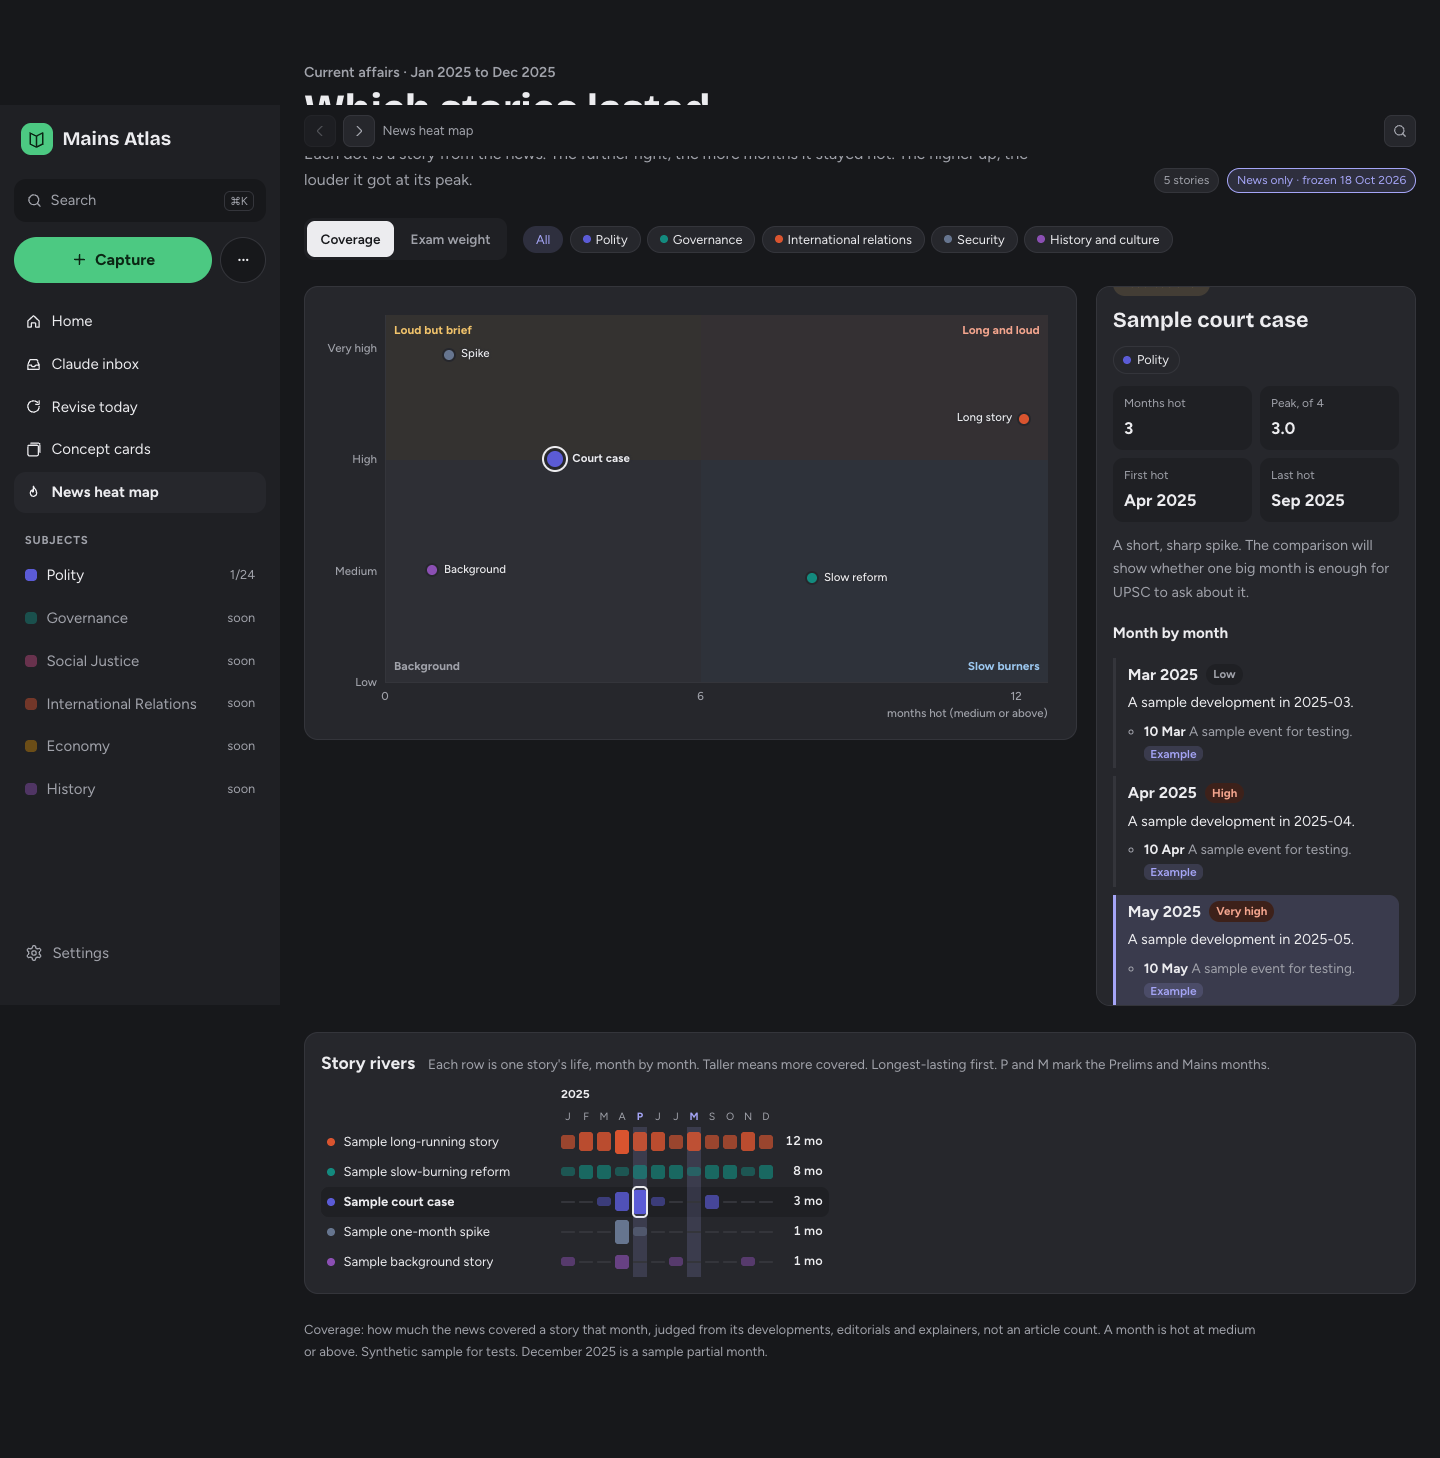
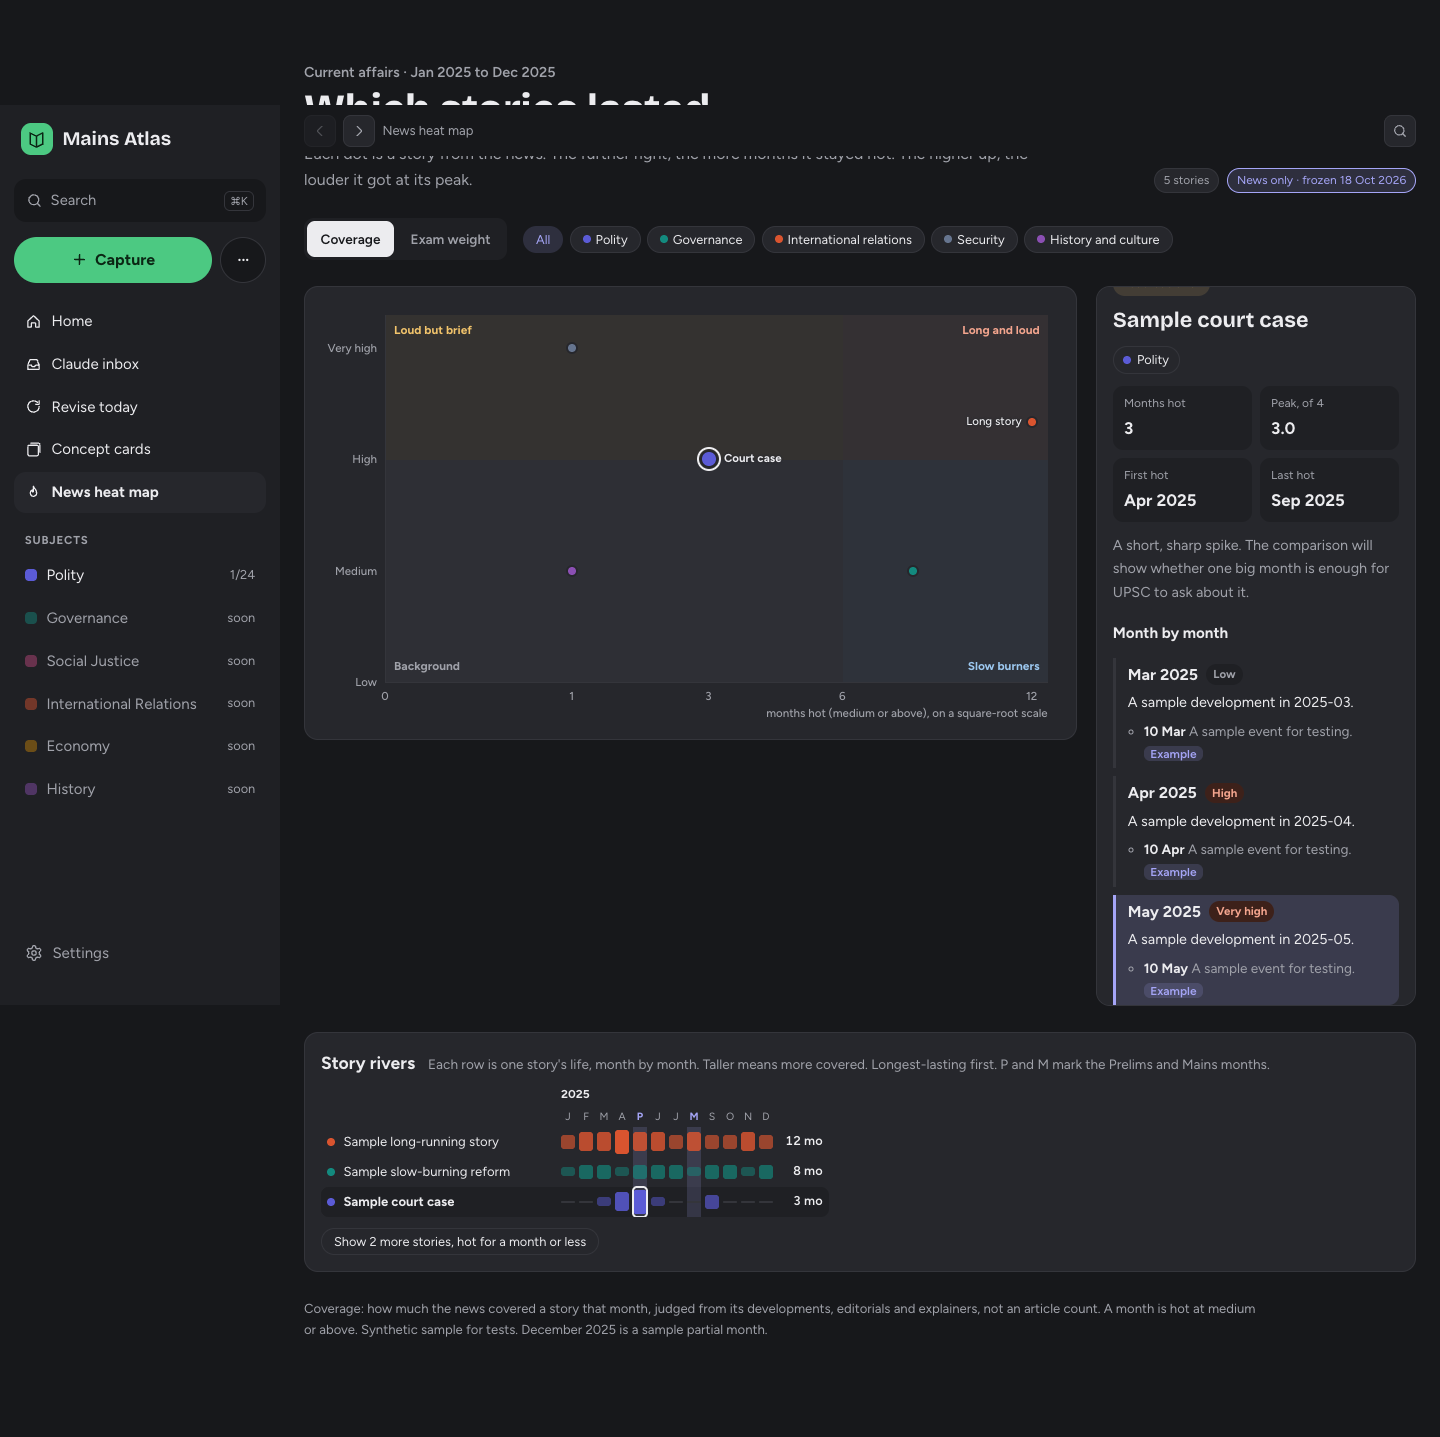
Heat map: spread clustered dots, square-root months, label placement
Most stories were hot for a single month, so dots on the same spot fan
out in a small spiral, the months axis uses a square-root scale, and
labels try beside, above and below a dot before giving up. The rivers
fold away stories hot for a month or less behind a button. Handoff,
architecture and decisions record the heat map.

diff --git a/app/src/heatmap/HeatMapPage.tsx b/app/src/heatmap/HeatMapPage.tsx
@@ -153,7 +153,10 @@ function HeatMapView({ map }: { map: HeatMap }) {
         <div className="head-chips">
           <span className="pill">{map.stories.length} stories</span>
           <span className="pill review">
-            {map.frozenAt ? `News only · frozen ${dayLabel(map.frozenAt)} ${map.frozenAt.slice(0, 4)}` : "News only"}
+            News only ·{" "}
+            {map.frozenAt
+              ? `frozen ${dayLabel(map.frozenAt)} ${map.frozenAt.slice(0, 4)}`
+              : `built ${dayLabel(map.builtAt)} ${map.builtAt.slice(0, 4)}`}
           </span>
         </div>
       </header>
@@ -241,11 +244,26 @@ function useWidth(ref: RefObject<HTMLElement | null>) {
   return w;
 }
 
-/** A small, stable nudge per story so dots with the same numbers don't hide each other. */
-function jitter(id: string) {
-  let h = 2166136261;
-  for (let i = 0; i < id.length; i++) h = Math.imul(h ^ id.charCodeAt(i), 16777619);
-  return { dx: ((h & 0xff) / 255 - 0.5) * 0.7, dy: (((h >>> 8) & 0xff) / 255 - 0.5) * 0.14 };
+/**
+ * Many stories share the same numbers (most were hot for a single month), so dots on the same
+ * spot fan out in a small sunflower spiral around it, in pixels.
+ */
+type Box = { x1: number; x2: number; y1: number; y2: number };
+
+function spread(rows: Row[], step: number) {
+  const groups = new Map<string, Row[]>();
+  for (const r of rows) {
+    const k = `${r.st.hot}|${r.st.peak.toFixed(2)}`;
+    groups.set(k, [...(groups.get(k) ?? []), r]);
+  }
+  const out = new Map<string, { dx: number; dy: number }>();
+  for (const list of groups.values())
+    list.forEach((r, i) => {
+      const rad = step * Math.sqrt(i),
+        a = i * 2.39996;
+      out.set(r.s.id, { dx: rad * Math.cos(a), dy: rad * Math.sin(a) });
+    });
+  return out;
 }
 
 const clamp01 = (v: number) => Math.min(1, Math.max(0, v));
@@ -270,17 +288,19 @@ function Scatter({
   const plotH = narrow ? 320 : 420;
   const h = plotH - 52;
   const yOf = (peak: number) => clamp01((peak - PEAK_MIN) / (PEAK_MAX - PEAK_MIN));
-  const cutX = CUTS.hot / (total + 0.6),
+  // Months hot on a square-root scale: most stories were hot for a month or two, a few for years.
+  const xOf = (hot: number) => Math.sqrt(hot) / Math.sqrt(total + 0.6);
+  const cutX = xOf(CUTS.hot),
     cutY = yOf(CUTS.peak);
-
+  const offsets = spread(rows, narrow ? 4.5 : 6.5);
   const dots = rows.map((r) => {
-    const j = jitter(r.s.id);
-    return {
-      r,
-      on: r.s.id === selId,
-      x: clamp01((r.st.hot + j.dx) / (total + 0.6)),
-      y: clamp01(yOf(r.st.peak + j.dy)),
-    };
+    const o = offsets.get(r.s.id) ?? { dx: 0, dy: 0 };
+    const x = xOf(r.st.hot),
+      y = clamp01(yOf(r.st.peak));
+    // In pixels once the width is known, kept inside the plot.
+    const px = w ? Math.min(Math.max(x * w + o.dx, 5), w - 5) : 0,
+      py = w ? Math.min(Math.max(y * h + o.dy, 5), h - 5) : 0;
+    return { r, on: r.s.id === selId, x, y, px, py };
   });
 
   // Label the chosen story and the most telling others, skipping any label that would collide.
@@ -294,34 +314,48 @@ function Scatter({
       { x1: 0, x2: 100, y1: 0, y2: 26 },
       { x1: w - 100, x2: w, y1: 0, y2: 26 },
     ];
+    // Labels mustn't cover other dots either.
+    const at = (d: (typeof dots)[number]) => ({ px: d.px, py: d.py });
+    const dotBoxes = dots.map((d) => {
+      const { px, py } = at(d);
+      return { id: d.r.s.id, x1: px - 7, x2: px + 7, y1: h - py - 7, y2: h - py + 7 };
+    });
     const out: { id: string; text: string; left?: number; right?: number; bottom: number; on: boolean }[] = [];
-    const max = narrow ? 5 : 12;
-    for (const d of [...dots].sort((a, b) => score(b) - score(a))) {
+    const max = narrow ? 5 : 14;
+    const worth = (d: (typeof dots)[number]) =>
+      d.on || d.r.q === "long-loud" || (d.r.q === "brief-loud" && d.r.st.hot >= 3);
+    for (const d of dots.filter(worth).sort((a, b) => score(b) - score(a))) {
       if (!d.on && out.length >= max) continue;
       const text = d.r.s.short ?? d.r.s.name;
       const tw = text.length * 6.6 + 8;
-      const px = d.x * w,
-        py = d.y * h,
-        gap = d.on ? 17 : 12;
-      const right = px + 12 + tw <= w;
-      const box = right
-        ? { x1: px + 10, x2: px + 12 + tw, y1: h - py - 8, y2: h - py + 8 }
-        : { x1: px - 12 - tw, x2: px - 10, y1: h - py - 8, y2: h - py + 8 };
-      const hit = boxes.some((b) => box.x1 < b.x2 && box.x2 > b.x1 && box.y1 < b.y2 && box.y2 > b.y1);
-      if (hit && !d.on) continue;
-      boxes.push(box);
-      out.push({
-        id: d.r.s.id,
-        text,
-        on: d.on,
-        bottom: py,
-        ...(right ? { left: px + gap } : { right: w - px + gap }),
-      });
+      const { px, py } = at(d);
+      const gap = d.on ? 15 : 10;
+      const overlaps = (box: Box) => (b: Box) => box.x1 < b.x2 && box.x2 > b.x1 && box.y1 < b.y2 && box.y2 > b.y1;
+      const clear = (box: Box) =>
+        !boxes.some(overlaps(box)) && !dotBoxes.some((b) => b.id !== d.r.s.id && overlaps(box)(b));
+      // Try beside the dot, then above or below it (rows of dots leave room between them).
+      const mid = Math.min(Math.max(px - tw / 2, 0), w - tw);
+      const spots = [
+        {
+          box: { x1: px + gap - 2, x2: px + gap + tw, y1: h - py - 8, y2: h - py + 8 },
+          pos: { left: px + gap, bottom: py },
+        },
+        {
+          box: { x1: px - gap - tw, x2: px - gap + 2, y1: h - py - 8, y2: h - py + 8 },
+          pos: { right: w - px + gap, bottom: py },
+        },
+        { box: { x1: mid, x2: mid + tw, y1: h - py - 23, y2: h - py - 7 }, pos: { left: mid + 4, bottom: py + 15 } },
+        { box: { x1: mid, x2: mid + tw, y1: h - py + 7, y2: h - py + 23 }, pos: { left: mid + 4, bottom: py - 15 } },
+      ].filter((p) => p.box.x1 >= 0 && p.box.x2 <= w && p.box.y1 >= 0 && p.box.y2 <= h);
+      const spot = spots.find((p) => clear(p.box)) ?? (d.on ? spots[0] : undefined);
+      if (!spot) continue;
+      boxes.push(spot.box);
+      out.push({ id: d.r.s.id, text, on: d.on, ...spot.pos });
     }
     return out;
   })();
 
-  const xTicks = [0, 6, 12, 18, 24, 30, 36].filter((t) => t <= total);
+  const xTicks = [0, 1, 3, 6, 12, 24].filter((t) => t <= total);
   return (
     <div className="hm-plot" style={{ height: plotH }}>
       <div className="hm-yaxis" aria-hidden="true">
@@ -361,7 +395,11 @@ function Scatter({
             key={d.r.s.id}
             type="button"
             className={`hm-dot${d.on ? " on" : ""}`}
-            style={{ left: `${d.x * 100}%`, bottom: `${d.y * 100}%`, background: AREA_COLOR[d.r.s.area] }}
+            style={{
+              left: w ? d.px : `${d.x * 100}%`,
+              bottom: w ? d.py : `${d.y * 100}%`,
+              background: AREA_COLOR[d.r.s.area],
+            }}
             aria-pressed={d.on}
             aria-label={`${d.r.s.name}: hot for ${d.r.st.hot} months, peak ${d.r.st.peak.toFixed(1)} of 4`}
             title={`${d.r.s.name} · hot ${d.r.st.hot} mo · peak ${d.r.st.peak.toFixed(1)}`}
@@ -381,11 +419,11 @@ function Scatter({
       </div>
       <div className="hm-xaxis" aria-hidden="true">
         {xTicks.map((t) => (
-          <span key={t} style={{ left: `${(t / (total + 0.6)) * 100}%` }}>
+          <span key={t} style={{ left: `${xOf(t) * 100}%` }}>
             {t}
           </span>
         ))}
-        <b>months hot (medium or above)</b>
+        <b>months hot (medium or above), on a square-root scale</b>
       </div>
     </div>
   );
@@ -504,6 +542,10 @@ function Rivers({
   onPick: (id: string, m: string | null) => void;
 }) {
   const yearStart = (i: number) => i > 0 && months[i].endsWith("-01");
+  // Stories hot for a month or less are many; they show on request.
+  const [all, setAll] = useState(false);
+  const quiet = rows.filter((r) => r.st.hot < 2 && r.s.id !== selId).length;
+  const list = all ? rows : rows.filter((r) => r.st.hot >= 2 || r.s.id === selId);
   return (
     <section className="hm-card hm-rivers" aria-label="Story rivers">
       <div className="hm-rivers-head">
@@ -536,7 +578,7 @@ function Rivers({
               ))}
             </div>
           </div>
-          {rows.map((r) => {
+          {list.map((r) => {
             const on = r.s.id === selId;
             return (
               <div
@@ -577,6 +619,11 @@ function Rivers({
           })}
         </div>
       </div>
+      {quiet > 0 && (
+        <button type="button" className="chip-btn hm-more" onClick={() => setAll((v) => !v)}>
+          {all ? "Show only stories hot for two months or more" : `Show ${quiet} more stories, hot for a month or less`}
+        </button>
+      )}
     </section>
   );
 }

diff --git a/app/src/index.css b/app/src/index.css
@@ -4028,8 +4028,8 @@ tr.planned .title-cell {
 .hm-dot {
   position: absolute;
   z-index: 2;
-  width: 14px;
-  height: 14px;
+  width: 12px;
+  height: 12px;
   padding: 0;
   border: 2px solid var(--raised);
   border-radius: 50%;
@@ -4039,15 +4039,15 @@ tr.planned .title-cell {
 .hm-dot::after {
   content: "";
   position: absolute;
-  inset: -8px;
+  inset: -6px;
 }
 .hm-dot:hover {
   transform: translate(-50%, 50%) scale(1.25);
 }
 .hm-dot.on {
   z-index: 3;
-  width: 20px;
-  height: 20px;
+  width: 18px;
+  height: 18px;
   outline: 2px solid var(--ink);
   outline-offset: 1px;
 }
@@ -4372,6 +4372,9 @@ span.hm-rl {
   font-weight: 600;
   text-align: right;
 }
+.hm-more {
+  margin-top: 0.7rem;
+}
 .hm-method {
   max-width: 60rem;
   margin: 0;
@@ -4380,6 +4383,11 @@ span.hm-rl {
 @media (max-width: 600px) {
   .hm-rl {
     width: 150px;
+  }
+  .hm-dot {
+    width: 9px;
+    height: 9px;
+    border-width: 1.5px;
   }
   .hm-card {
     padding: 0.75rem;

diff --git a/docs/HANDOFF.md b/docs/HANDOFF.md
@@ -1,5 +1,32 @@
 # Handoff
 
+## News heat map — 2026-10-18
+
+- **Branch:** `claude/news-heat-map`, from `main` (194bb64). Assisting tool: Claude Code.
+- **What (user's request):** a month-by-month heat map of news stories from January 2024, built
+  without past papers, to compare later with what UPSC asked. The user chose layout C (story
+  lifecycles) from three mocks (https://claude.ai/artifact/1d9Ave1Z2bv8h69PGijebA).
+- **App:** "News heat map" in the sidebar (`/heat-map`, lazy-loaded `src/heatmap/HeatMapPage.tsx`):
+  a chart of months hot against peak (four corners), Coverage / Exam weight switch, area
+  filter, the chosen story's month-by-month timeline with sources and Atlas note links, and
+  story rivers with Prelims/Mains months marked. Selection is in the URL (replaced, not pushed).
+- **Data:** `src/lib/heatmap.ts` (shape, metrics, checks). `content/heatmap.json` locally;
+  Firestore `heatmap/current[, current-N]` in parts of ≤300 000 characters; owner read-only
+  rule. CLI `atlas heatmap` and `atlas heatmap-import <file> [--force]` (refuses to replace a
+  frozen map without `--force`). Export/import carry it.
+- **Research (private, `output/heatmap-research/`):** six Claude researchers wrote `raw/YYYY-MM.json`
+  (stories with coverage, weight, events and sources; Prelims items). `stories.json` merges thread
+  names into stories; `build.py` builds `heatmap.json`, dropping links `linkcheck.py` found dead.
+  The shared web-search limit ran out early for every researcher, so most months were sourced
+  from Wikipedia's monthly pages, PRS reviews and the links they cite; some events are missing
+  (listed in the researchers' reports, kept in `output/heatmap-research/gaps.md`).
+- **Checks:** `npm run check` (69 unit tests, build); `npm run test:cloud` 22 passed (rules:
+  owner reads, nobody writes; a map split across parts round-trips); `npx playwright test` 50
+  passed + 16 desktop-only skips (run on the installed Chrome, as Playwright's own browsers were
+  missing). Screenshots (fixture): `docs/design/heatmap/`.
+- **Not done:** deploying the Firestore rule and Hosting (needs the user's say-so); the freeze
+  and the comparison with past papers; Grok and Gemini adding to the map.
+
 ## Proposals, history and the feed (M4) — 2026-10-18
 
 - **Branch:** `claude/proposals-history-feed`, from `main` (a0b03af). Assisting tool: Claude Code.
